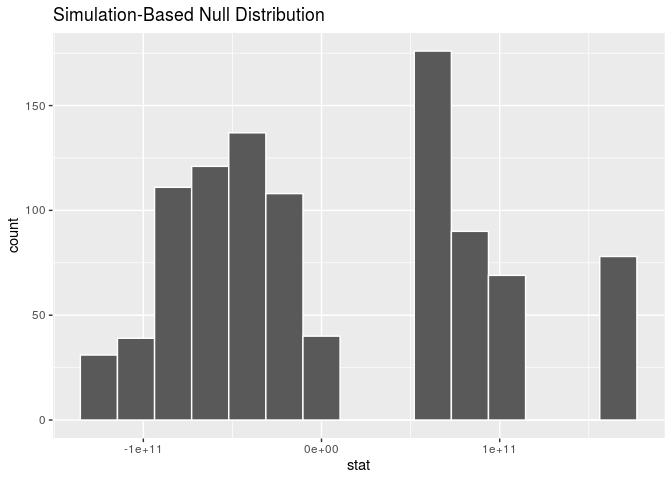
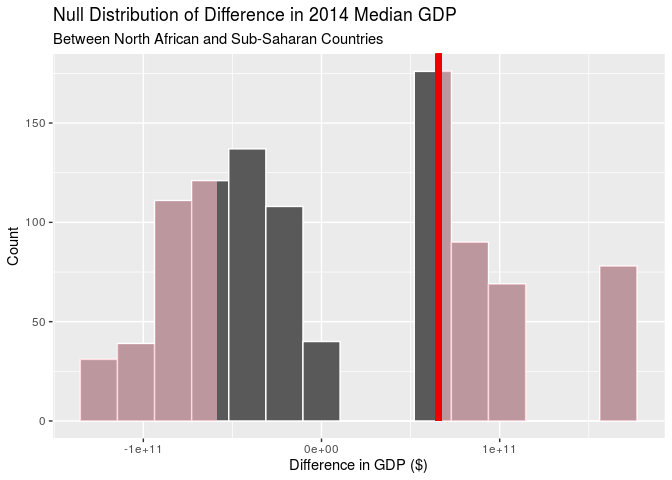
updates

diff --git a/data-analysis/data-analysis.md b/data-analysis/data-analysis.md
@@ -3,100 +3,27 @@ An Analysis of African Systemic Crises
 Beck Addison, Jerry Lin, Isabella Swigart, Emma Hirschkop
 12/3/2019
 
-Your data analysis goes here\!
-
 ``` r
 #install.packages("countrycode") - already installed
 #install.packages("infer")
 library(infer)
 library(tidyverse)
-```
-
-    ## ── Attaching packages ────────────────────────────────────────────────────── tidyverse 1.2.1 ──
-
-    ## ✔ ggplot2 3.2.1     ✔ purrr   0.3.2
-    ## ✔ tibble  2.1.3     ✔ dplyr   0.8.3
-    ## ✔ tidyr   1.0.0     ✔ stringr 1.4.0
-    ## ✔ readr   1.3.1     ✔ forcats 0.4.0
-
-    ## ── Conflicts ───────────────────────────────────────────────────────── tidyverse_conflicts() ──
-    ## ✖ dplyr::filter() masks stats::filter()
-    ## ✖ dplyr::lag()    masks stats::lag()
-
-``` r
 library(countrycode)
 ```
 
 ``` r
 africa <- read_csv("../data/african_crises.csv")
-```
-
-    ## Parsed with column specification:
-    ## cols(
-    ##   case = col_double(),
-    ##   cc3 = col_character(),
-    ##   country = col_character(),
-    ##   year = col_double(),
-    ##   systemic_crisis = col_double(),
-    ##   exch_usd = col_double(),
-    ##   domestic_debt_in_default = col_double(),
-    ##   sovereign_external_debt_default = col_double(),
-    ##   gdp_weighted_default = col_double(),
-    ##   inflation_annual_cpi = col_double(),
-    ##   independence = col_double(),
-    ##   currency_crises = col_double(),
-    ##   inflation_crises = col_double(),
-    ##   banking_crisis = col_character()
-    ## )
-
-``` r
 global <- read_csv("../data/global_crisis_data.csv")
-```
-
-    ## Parsed with column specification:
-    ## cols(
-    ##   .default = col_character(),
-    ##   Case = col_double(),
-    ##   Year = col_double(),
-    ##   exch_usd = col_double(),
-    ##   exch_usd_alt1 = col_double(),
-    ##   exch_usd_alt2 = col_double(),
-    ##   exch_usd_alt3 = col_double(),
-    ##   `SOVEREIGN EXTERNAL DEBT 2: DEFAULT and RESTRUCTURINGS, 1800-2012--Does not include defaults on WWI debt to United States and United Kingdom but includes post-1975 defaults on Official External Creditors` = col_double()
-    ## )
-
-    ## See spec(...) for full column specifications.
-
-    ## Warning: 891 parsing failures.
-    ##  row      col expected actual                             file
-    ## 1228 exch_usd a double    n/a '../data/global_crisis_data.csv'
-    ## 1229 exch_usd a double    n/a '../data/global_crisis_data.csv'
-    ## 1230 exch_usd a double    n/a '../data/global_crisis_data.csv'
-    ## 1231 exch_usd a double    n/a '../data/global_crisis_data.csv'
-    ## 1232 exch_usd a double    n/a '../data/global_crisis_data.csv'
-    ## .... ........ ........ ...... ................................
-    ## See problems(...) for more details.
-
-``` r
 gdps <- read_csv("../data/world_gdp_data.csv")
 ```
-
-    ## Parsed with column specification:
-    ## cols(
-    ##   .default = col_double(),
-    ##   `Country Name` = col_character(),
-    ##   `Country Code` = col_character(),
-    ##   `Indicator Name` = col_character(),
-    ##   `Indicator Code` = col_character()
-    ## )
-    ## See spec(...) for full column specifications.
 
 Our analysis begins with two datasets: our original African economic
 crises dataset, which contains numerical variables like inflation rate,
 exchange rate against the US dollar, and debt vs. GDP ratio. Another
 helpful variable to analyze would be each country’s GDP, so we
 downloaded world GDP data from the World Bank, and joined this data with
-our Africa dataset.
+our Africa dataset. We then cleaned up the dataset by renaming some
+variables and changing their types from integers to booleans.
 
 ``` r
 gdps <- gdps %>%
@@ -168,17 +95,7 @@ global <- global[-1,] %>%
   )
 ```
 
-    ## Warning: NAs introduced by coercion
-    
-    ## Warning: NAs introduced by coercion
-    
-    ## Warning: NAs introduced by coercion
-    
-    ## Warning: NAs introduced by coercion
-    
-    ## Warning: NAs introduced by coercion
-
-## Question 2: Hypothesis Testing
+## Question 1: Hypothesis Testing
 
 #### Was an economic crisis more likely following n years after decolonization?
 
@@ -233,10 +150,9 @@ post-independence African countries see a higher proportion of systemic
 crises (per year) compared to before independence. Let’s examine it:
 
 ``` r
-crisis_prop <- africa %>%
+africa %>%
   group_by(country, independence) %>%
   summarise(crisis_prop = sum(systemic_crisis)/n())
-crisis_prop
 ```
 
     ## # A tibble: 25 x 3
@@ -256,10 +172,9 @@ crisis_prop
     ## # … with 15 more rows
 
 ``` r
-overall_crisis_prop <- africa %>%
+africa %>%
   group_by(independence) %>%
   summarise(overall_crisis_prop = sum(systemic_crisis)/n())
-overall_crisis_prop
 ```
 
     ## # A tibble: 2 x 2
@@ -279,7 +194,7 @@ in proportions of systemic crises between independent and
 non-independent countries across all African countries. Our null
 hypothesis is that the proportion of systemic crises between independent
 and non-independent African countries is the same; the observed
-difference is due to chance Our alternative hypothesis is that the
+difference is due to chance. Our alternative hypothesis is that the
 proportion of systemic crises between independent and non-independent
 African countries is different.
 
@@ -299,18 +214,13 @@ fct_africa <- africa %>%
 ``` r
 set.seed(1)
 null_dist <- fct_africa %>%
-  specify(response = systemic_crisis, explanatory = independence, success = "1") %>%
+  specify(response = systemic_crisis, explanatory = independence, 
+          success = "1") %>%
   hypothesize(null = "independence") %>%
   generate(1000, type = "permute") %>%
   calculate(stat = "diff in props", 
             order = c("1", "0"))
-visualize(null_dist)
-```
-
-![](data-analysis_files/figure-gfm/crisis-prop-diff-1.png)<!-- -->
-
-``` r
-get_p_value(null_dist, obs_stat = 0.094320737, direction = "two_sided")
+get_p_value(null_dist, obs_stat = 0.094320737, direction = "both")
 ```
 
     ## # A tibble: 1 x 1
@@ -318,17 +228,29 @@ get_p_value(null_dist, obs_stat = 0.094320737, direction = "two_sided")
     ##     <dbl>
     ## 1       0
 
+``` r
+visualize(null_dist) +
+  shade_p_value(0.094320737, "both") +
+  labs(title = "Null Distribution of Difference in Systemic Crisis Proportions", subtitle = "Between Independent and Non-Independent African Countries", x = "Difference in Proportions", 
+       y = "Count")
+```
+
+![](data-analysis_files/figure-gfm/crisis-prop-diff-1.png)<!-- -->
+
 Since our p-value of 0 is less than our significance level of 0.05, we
 reject the null hypothesis. The data provides convincing evidence that
 there is a difference in the proportion of systemic crises between
 non-independent and independent African
 countries.
 
+## Question 2: Hypothesis Testing
+
 #### Is there a difference between GDP and systemic crises in North African and sub-Saharan African countries?
 
 We’re interested in seeing if there’s a noticeable difference in
 economic stability and prosperity between North African and sub-Saharan
-African countries.
+African countries. We can evaluate this using data for GDP and systemic
+crises.
 
 To answer this question, we need to label North African and sub-Saharan
 countries in our Africa dataset.
@@ -404,16 +326,17 @@ african_gdps %>%
     ## 2 s       44299338704.
 
 The average GDP for North African countries is $110,081,000,000; the
-average GDP for sub-Saharan countries is $44,299,338,704. The difference
+average GDP for sub-Saharan countries is $44,299,338,704. Therefore, the
+difference in median GDP between North African and sub-Saharan countries
 is $65,781,661,296.
 
 The first research question we’ll ask is: is there a difference in
 median GDP among all North African and sub-Saharan countries?
 
-Our null hypothesis is that the GDP of North African and sub-Saharan
-countries is the same; the observed difference is due to chance. Our
-alternative hypothesis is that the GDP of independent and
-non-independent African countries is different.
+Our null hypothesis is that the median GDP of North African and
+sub-Saharan countries is the same; the observed difference is due to
+chance. Our alternative hypothesis is that the median GDP of independent
+and non-independent African countries is different.
 
 Since we’re testing for independence, we’ll use permute.
 
@@ -428,12 +351,6 @@ null_dist2 <- gdp_2014 %>%
   generate(1000, type = "permute") %>%
   calculate(stat = "diff in medians", 
             order = c("n", "s"))
-visualize(null_dist2)
-```
-
-![](data-analysis_files/figure-gfm/gdp-prop-diff-1.png)<!-- -->
-
-``` r
 get_p_value(null_dist2, obs_stat = 65781661296, direction = "two_sided")
 ```
 
@@ -441,6 +358,15 @@ get_p_value(null_dist2, obs_stat = 65781661296, direction = "two_sided")
     ##   p_value
     ##     <dbl>
     ## 1   0.528
+
+``` r
+visualize(null_dist2) +
+  shade_p_value(65781661296, "both") +
+  labs(title = "Null Distribution of Difference in 2014 Median GDP", subtitle = "Between North African and Sub-Saharan Countries", x = "Difference in GDP ($)", 
+       y = "Count")
+```
+
+![](data-analysis_files/figure-gfm/gdp-prop-diff-1.png)<!-- -->
 
 Since our p-value of 0.528 is greater than our significance level of
 0.05, we fail to reject the null hypothesis. The data does not provide
@@ -486,12 +412,6 @@ null_dist3 <- fct_africa %>%
   generate(1000, type = "permute") %>%
   calculate(stat = "diff in props", 
             order = c("n", "s"))
-visualize(null_dist3)
-```
-
-![](data-analysis_files/figure-gfm/region-prop-diff-1.png)<!-- -->
-
-``` r
 get_p_value(null_dist3, obs_stat = 0.0535702, direction = "two_sided")
 ```
 
@@ -499,6 +419,15 @@ get_p_value(null_dist3, obs_stat = 0.0535702, direction = "two_sided")
     ##   p_value
     ##     <dbl>
     ## 1       0
+
+``` r
+visualize(null_dist3) +
+  shade_p_value(0.0535702, "both") +
+  labs(title = "Null Distribution of Difference in Proportion of Systemic 
+  Crises", subtitle = "Between North African and Sub-Saharan Countries", x = "Difference in Proportion", y = "Count")
+```
+
+![](data-analysis_files/figure-gfm/region-prop-diff-1.png)<!-- -->
 
 Since our p-value of 0 is less than the significance level of 0.05, we
 reject the null hypothesis. The data provides convincing evidence that
